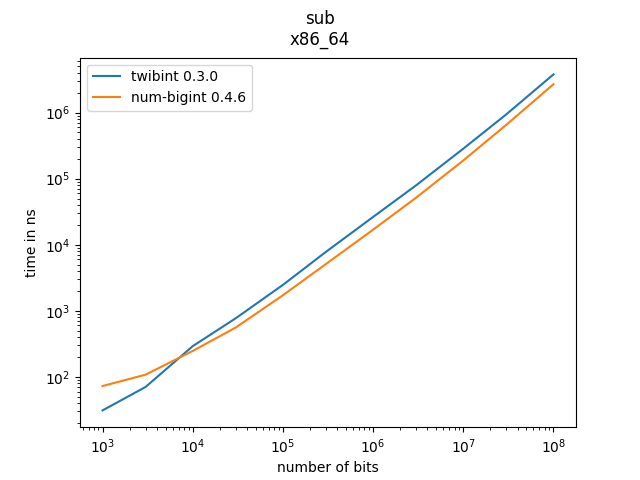
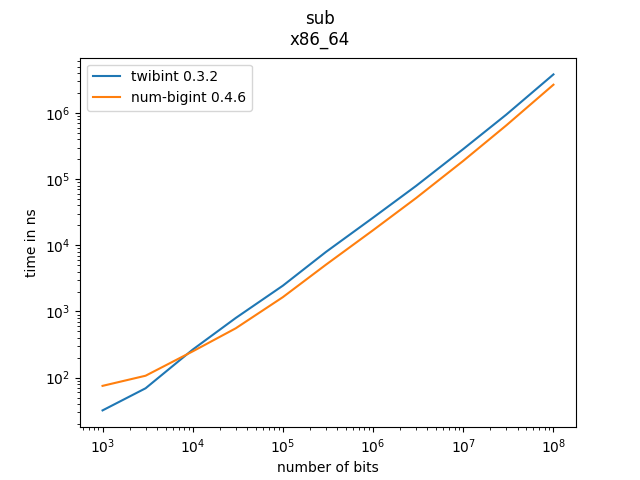
update READMEs and meta data

diff --git a/benches/run_benchmarks.py b/benches/run_benchmarks.py
@@ -9,7 +9,7 @@ import matplotlib.pyplot as plt
 
 VERSIONS = {
 	"num-bigint": "0.4.6",
-	"twibint": "0.3.0",
+	"twibint": "0.3.2",
 }
 
 def run_benchmark(crate):

diff --git a/benches/README.md b/benches/README.md
@@ -4,9 +4,9 @@
 A very simple and naive scripts helps evaluate how the performance compares to 
 Python integers: `benches.py`.
 
-Simply put, `twibint`'s addition and multiplication are faster, but division 
-is slightly slower. I've not produced a systematic study comparing the 
-2 option at different scales at this point.
+Simply put, `twibint`'s multiplication, and division are much faster. 
+Addition is slightly faster. I've not produced a systematic study 
+comparing the 2 option at different scales at this point.
 
 ## comparing to `num-bigint`
 Running the Python script `run_benchmarks.py` will run a series of benchmarks 

diff --git a/README.md b/README.md
@@ -40,10 +40,10 @@ More details and scripts about performance are available in the `benches`
 folder.
 
 TL;DR -> The current state of `twibint`s performance (v0.3.0) is: 
-Addition, Subtraction and Multiplication are faster than for Python 
-integers (Division is slightly slower), and sometimes faster then 
-`num-bigint` at some scales. Division remains quite slower than 
-`num-bigint`.
+Addition, Subtraction, Multiplication, and Division are faster than 
+for Python integers. Compared to `num-bigint`, Addition is mostly 
+faster, Multiplication is equivalent, Subtraction and Division slightly 
+worse. 
 
 # List of features
 
